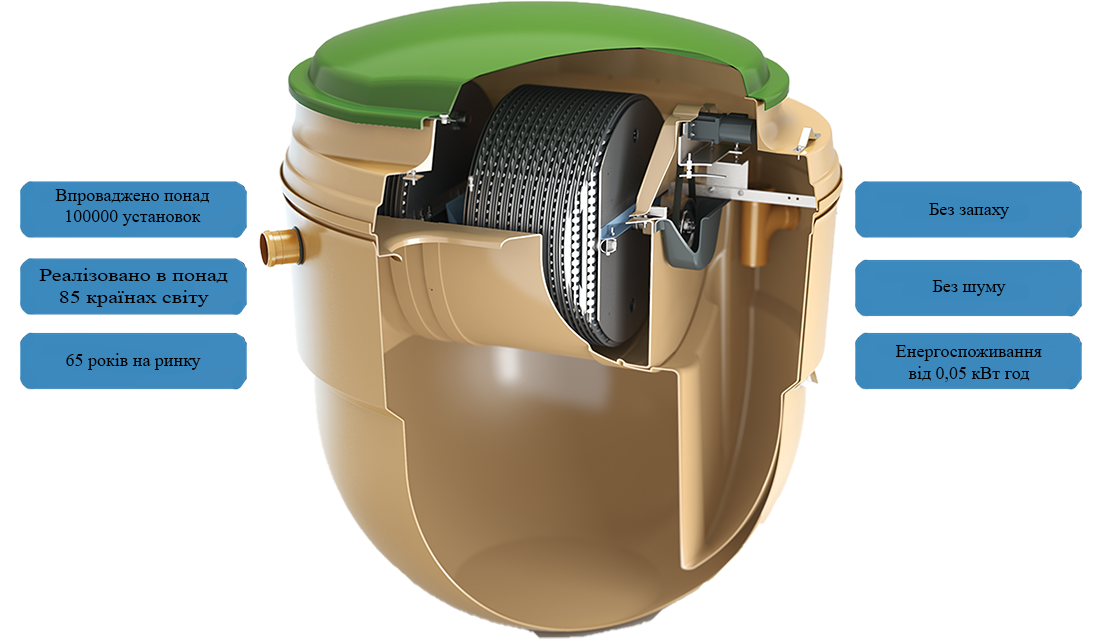
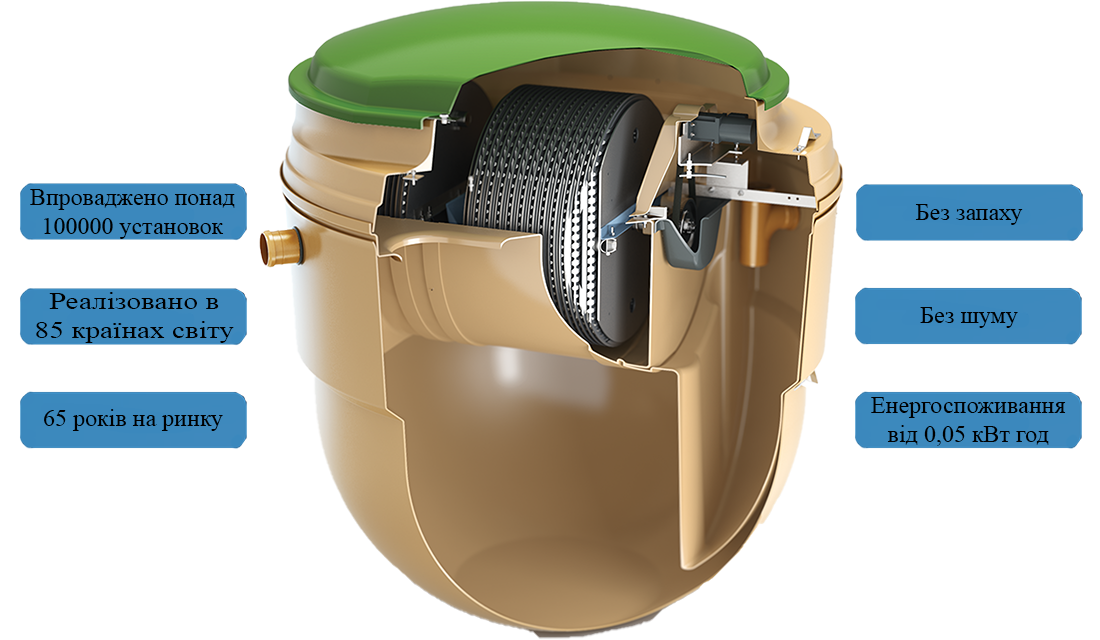
main_video changed

diff --git a/index.html b/index.html
@@ -94,7 +94,17 @@
           <span>Корпус із скловолокна</span>
           <i class="fa-solid fa-hand-fist prior_icon"></i>
         </div> -->
-        <img src="img/main-video/2.png" alt="" class="main_video_img" />
+        <div class="threetext left_items">
+          <span class="threetext_item left_item">Впроваджено понад 100000 установок</span>
+          <span class="threetext_item left_item">Реалізовано в 85 країнах світу</span>
+          <span class="threetext_item left_item">65 років на ринку</span>
+        </div>
+        <img src="img/main-video/2w.png" alt="" class="main_video_img" />
+        <div class="threetext right_items">
+          <span class="threetext_item right_item">Без запаху</span>
+          <span class="threetext_item right_item">Без шуму</span>
+          <span class="threetext_item right_item">Енергоспоживання від 0.05 кВт год</span>
+        </div>
       </div>
       <div class="video-background">
         <div class="video-foreground">
@@ -108,22 +118,39 @@
       </div>
       <div class="filter"></div>
       <img class="kingspan_logo" src="img/main-video/kingspan-logo.svg" alt="kingspan logo" />
-      <span class="innovation">Інноваційна технологія очищення стічних вод</span>
+      <span class="innovation"
+        >Інноваційна технологія <br />
+        очищення стічних вод</span
+      >
       <div class="text-content">
         <h1><span class="ziko">ЗІКО</span> - ексклюзивний представник<br />Kingspan в Україні</h1>
         <div class="main_contacts_wrapper">
           <a class="phone_call" href="tel:+380503309320">
             <i class="fa fa-phone phone_number_icon"></i>
-            <span class="phone_text">+38 050 330 93 20</span>
+            <span class="phone_text main_video_phone">+38 050 330 93 20</span>
           </a>
-          <button class="header_button" data-bs-toggle="modal" data-bs-target="#exampleModal">
+          <button
+            class="header_button main_video_button"
+            data-bs-toggle="modal"
+            data-bs-target="#exampleModal"
+          >
             Залишити заявку
           </button>
         </div>
       </div>
     </section>
     <section class="additional_img_for_mob">
-      <img src="img/main-video/2.png" alt="" class="main_video_img img_appear" />
+      <div class="threetext left_items">
+        <span class="threetext_item left_item">Впроваджено понад 100000 установок</span>
+        <span class="threetext_item left_item">Реалізовано в 85 країнах світу</span>
+        <span class="threetext_item left_item">65 років на ринку</span>
+      </div>
+      <img src="img/main-video/2w.png" alt="" class="main_video_img" />
+      <div class="threetext right_items">
+        <span class="threetext_item right_item">Без запаху</span>
+        <span class="threetext_item right_item">Без шуму</span>
+        <span class="threetext_item right_item">Енергоспоживання від 0.05 кВт год</span>
+      </div>
     </section>
 
     <section class="usage" id="usage">

diff --git a/styles/main-video.css b/styles/main-video.css
@@ -167,8 +167,12 @@ h1 {
   background-color: white;
   width: 100%;
   padding-top: 20px;
+  display: none;
+  gap: 20px;
+  justify-content: center;
 }
-@media (max-width: 1200px) {
+
+@media (max-width: 1150px) {
   .text-content {
     position: absolute;
     left: 0;
@@ -178,11 +182,11 @@ h1 {
     margin-right: auto;
     width: 90%;
   }
-  .main_video_img {
+  .priorities_wrapper {
     display: none;
   }
-  .img_appear {
-    display: block;
+  .additional_img_for_mob {
+    display: flex;
     margin: 0 auto;
   }
 }
@@ -216,14 +220,37 @@ h1 {
   top: 35%;
   z-index: 99;
   display: flex;
-  flex-direction: column;
+
   gap: 15px;
   left: 10%;
+}
+.threetext {
+  display: flex;
+  flex-direction: column;
+  gap: 25px;
+  justify-content: center;
+}
+.threetext_item {
+  padding: 15px;
+  font-size: 16px;
+  color: black;
+  background-color: gold;
+  opacity: 0.8;
+  border-radius: 15px;
+  max-height: 60px;
+  max-width: 200px;
+  text-align: center;
+}
+.left_items {
+  align-items: flex-end;
+}
+.right_items {
+  align-items: flex-start;
 }
 .text-content {
   position: absolute;
   z-index: 5;
-  top: 40%;
+  top: 45%;
   right: 10%;
   display: flex;
   flex-direction: column;
@@ -232,8 +259,8 @@ h1 {
   margin-right: 15px;
 }
 .main_video_img {
-  max-width: 800px;
-  max-height: 800px;
+  max-width: 400px;
+  max-height: 500px;
   width: 100%;
 }
 .innovation {
@@ -245,6 +272,20 @@ h1 {
   right: 0;
   margin: auto;
   text-align: center;
+}
+@media (max-width: 1324px) {
+  h1 {
+    font-size: 24px;
+  }
+  .ziko {
+    font-size: 24px;
+  }
+  .main_video_phone {
+    font-size: 14px;
+  }
+  .main_video_button {
+    font-size: 14px;
+  }
 }
 @media (max-width: 1380px) {
   .innovation {
@@ -273,13 +314,36 @@ h1 {
     right: 10px;
   }
 }
-@media (max-width: 1380px) {
+@media (max-width: 1420px) {
   .main_video_img {
-    max-width: 600px;
-    max-height: 600px;
+    max-width: 300px;
+    max-height: 400px;
   }
 }
-
+@media (max-width: 1150px) {
+  .text-content {
+    position: absolute;
+    left: 0;
+    right: 0;
+    top: 50%;
+    margin-left: auto;
+    margin-right: auto;
+    width: 90%;
+  }
+  .priorities_wrapper {
+    display: none;
+  }
+  .img_appear {
+    display: block;
+    margin: 0 auto;
+  }
+}
+@media (max-width: 1149px) {
+  .img_appear {
+    display: block;
+    margin: 0 auto;
+  }
+}
 .priority {
   height: 60px;
   width: 500px;
@@ -360,4 +424,41 @@ h1 {
   width: 80%;
 }
 .next {
+}
+@media (max-width: 750px) {
+  .additional_img_for_mob {
+    display: flex;
+    flex-direction: column;
+    justify-content: center;
+    align-items: center;
+  }
+  .left_items {
+    flex-direction: row;
+    align-items: center;
+    justify-content: center;
+  }
+  .right_items {
+    flex-direction: row;
+    align-items: center;
+    justify-content: center;
+  }
+}
+@media (max-width: 620px) {
+  .additional_img_for_mob {
+    flex-direction: column;
+    justify-content: center;
+    align-items: center;
+  }
+  .left_items {
+    flex-direction: column;
+    align-items: center;
+    justify-content: center;
+    gap: 5px;
+  }
+  .right_items {
+    flex-direction: column;
+    align-items: center;
+    justify-content: center;
+    gap: 5px;
+  }
 }
